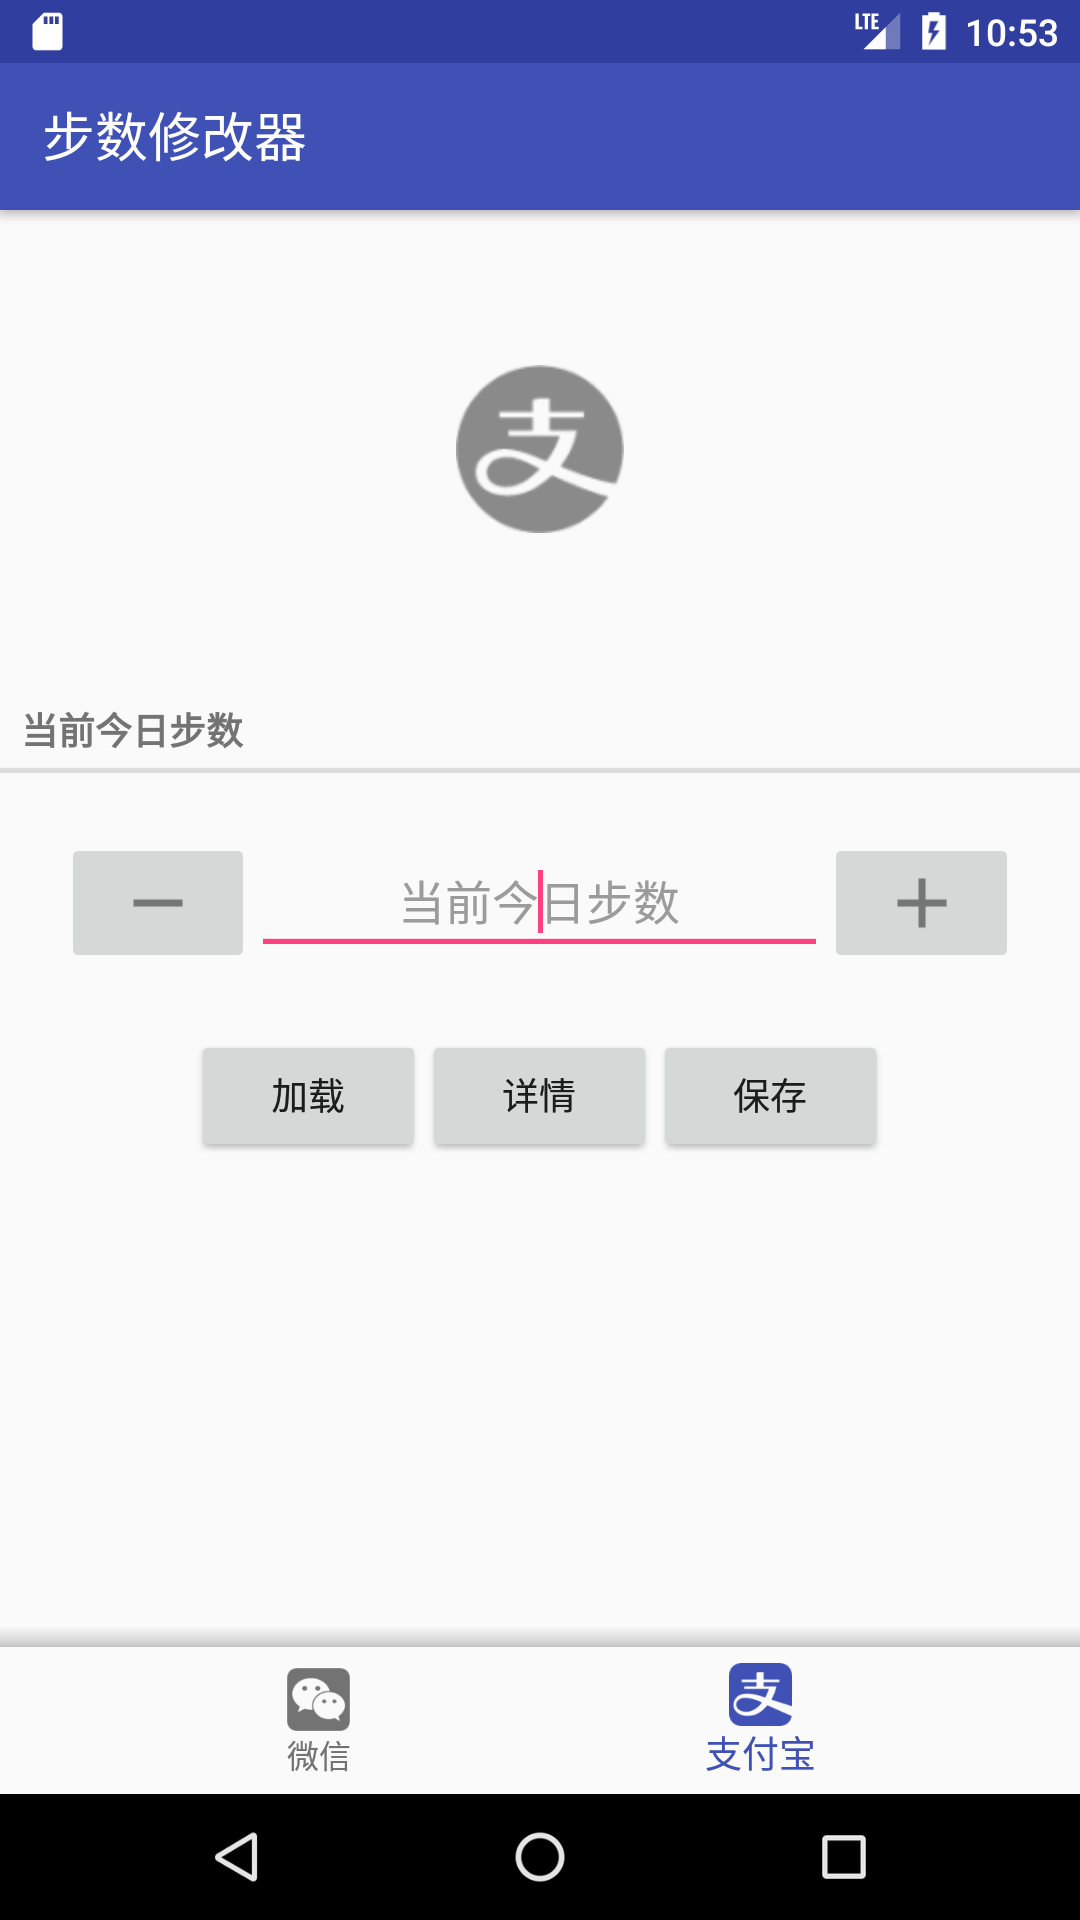
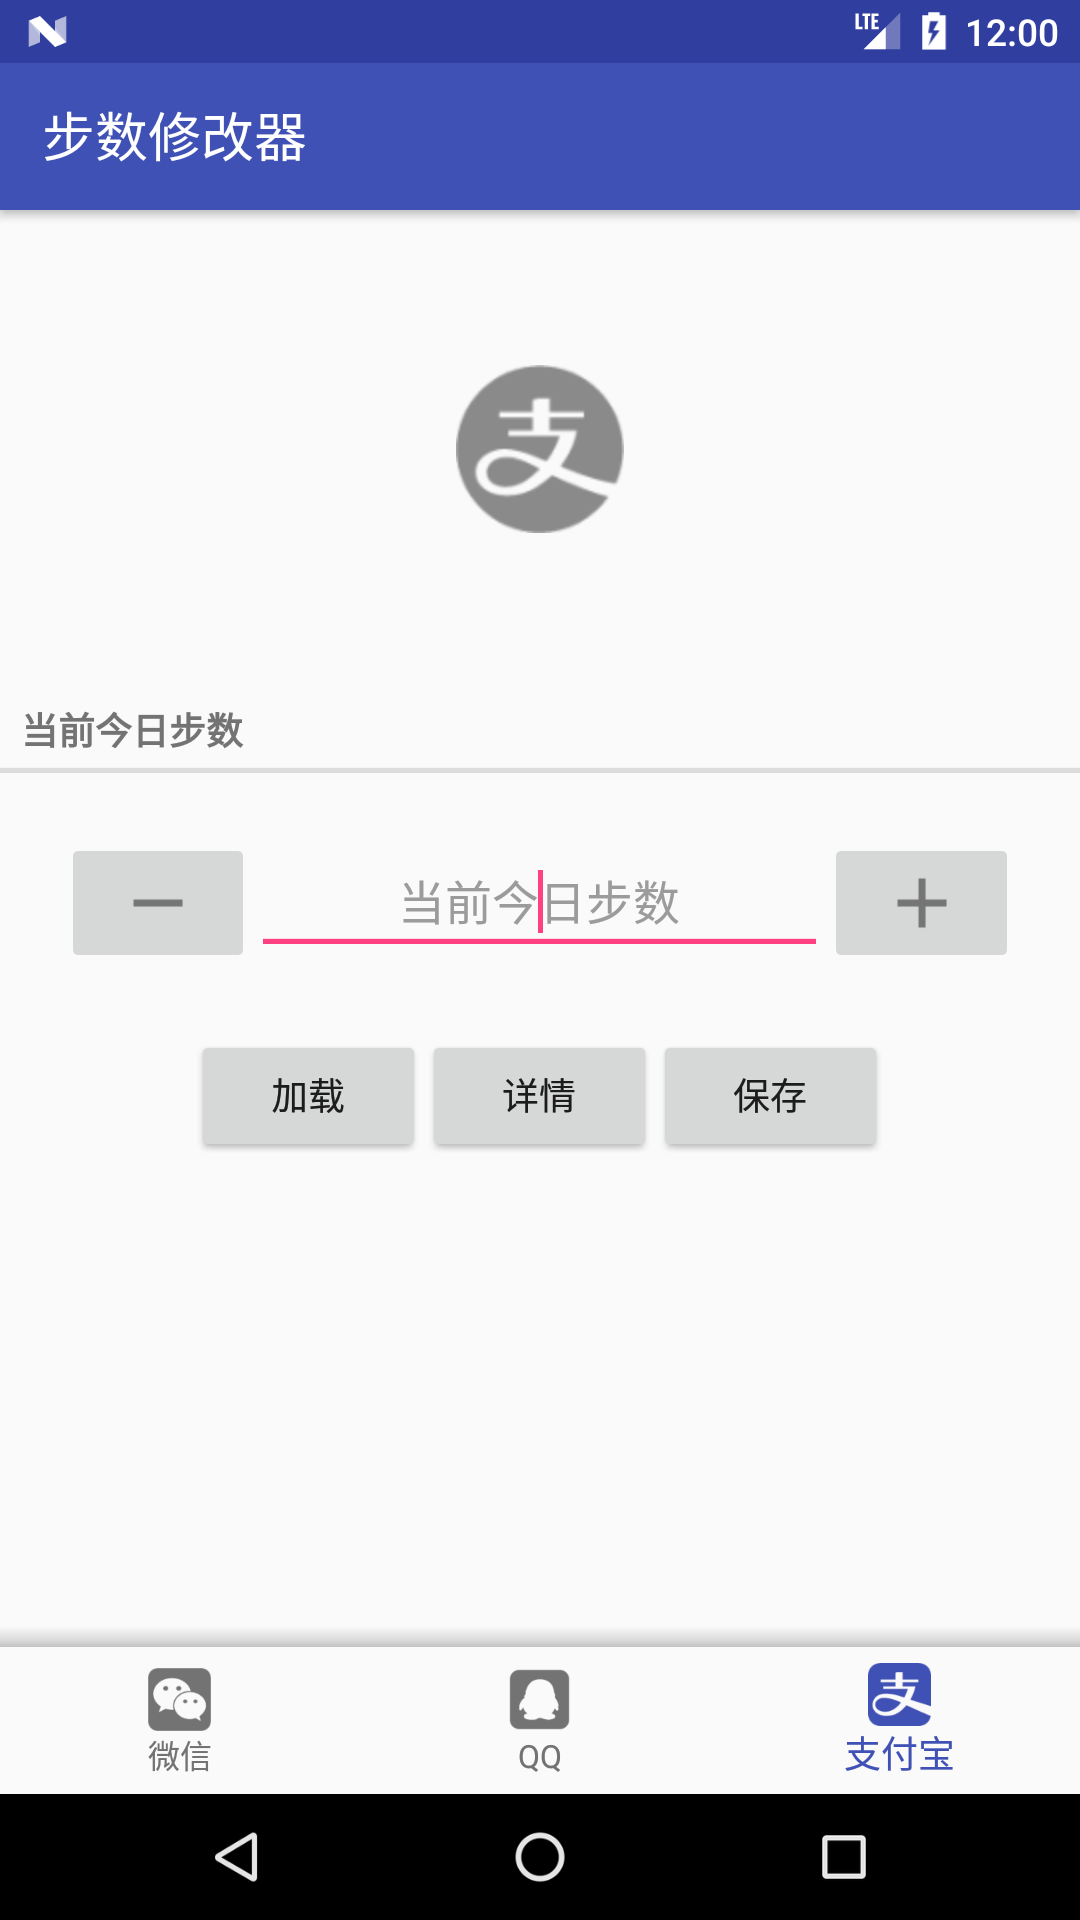
update README.md after adding tencent qq support

diff --git a/README.md b/README.md
@@ -19,6 +19,8 @@
 <div align="center">
     <img src="images/wechat_main.png" width="45%" title="微信主界面" alt="微信主界面" />
     <img src="images/wechat_details.png" width="45%" title="微信详情界面" alt="微信详情界面" />
+    <img src="images/qq_main.png" width="45%" title="QQ主界面" alt="QQ主界面" />
+    <img src="images/qq_details.png" width="45%" title="QQ详情界面" alt="QQ详情界面" />
     <img src="images/alipay_main.png" width="45%" title="支付宝主界面" alt="支付宝主界面" />
     <img src="images/alipay_details.png" width="45%" title="支付宝详情界面" alt="支付宝详情界面" />
 </div>
